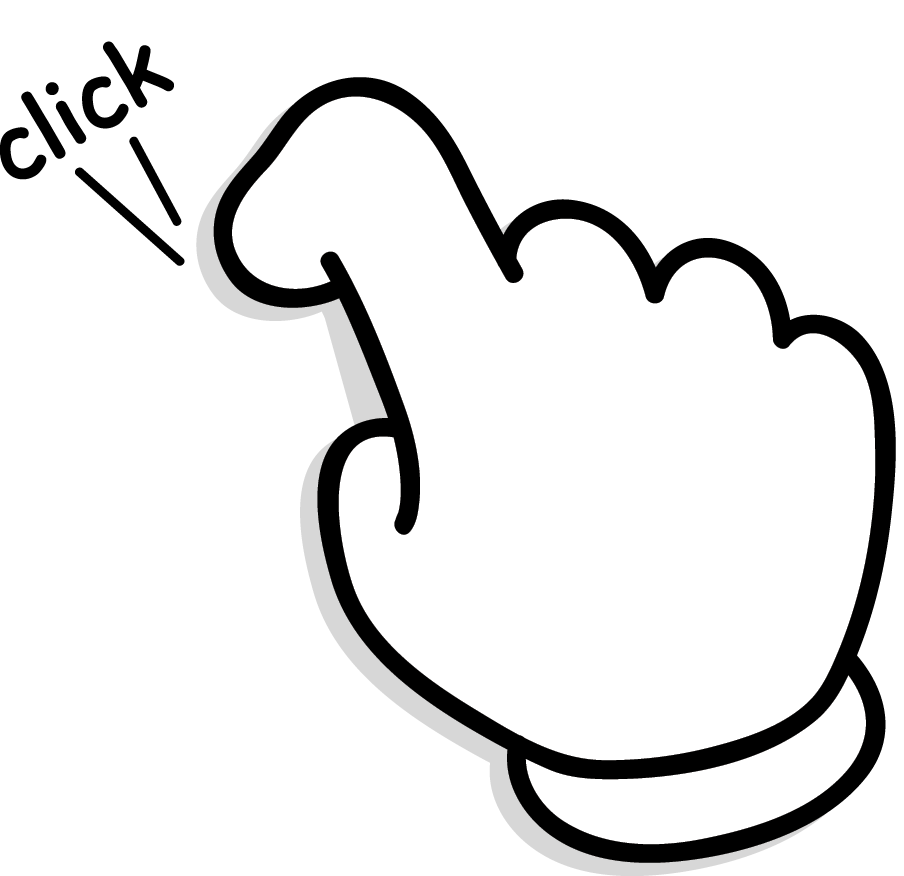
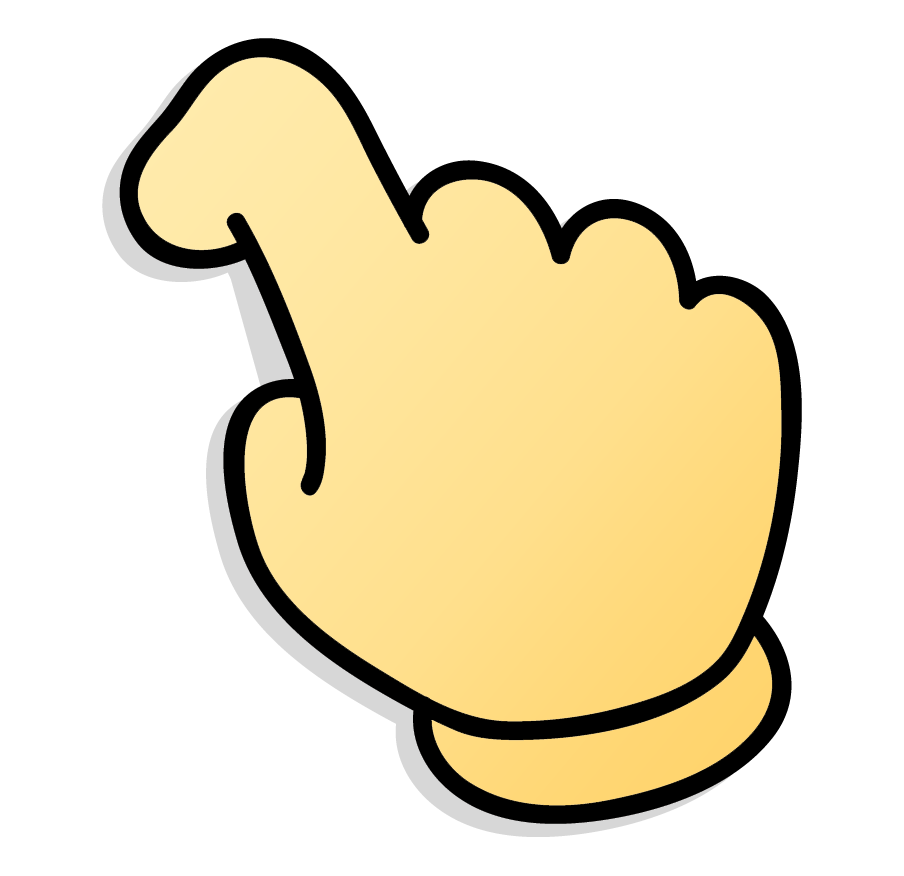
optimized code

diff --git a/Header/RenderWindow.c b/Header/RenderWindow.c
@@ -4,20 +4,29 @@
 RenderWindow RenderWindowInit() {
     RenderWindow renderWindow;
     renderWindow.Create = &RenderWindow_Create;
-    renderWindow.CleanUp = &RenderWindow_CleanUp;
-    renderWindow.Clear = *RenderWindow_Clear;
-    renderWindow.Render = *RenderWindow_Render;
-    renderWindow.Display = *RenderWindow_Display;
-    
+    renderWindow.Clear = &RenderWindow_Clear;
+    renderWindow.Render = &RenderWindow_Render;
+    renderWindow.Display = &RenderWindow_Display;
+    renderWindow.Close = &RenderWindow_Close;
+    renderWindow.DestroyTexture = &RenderWindow_DestroyTexture;
+
     return renderWindow;
 }
 
 SDL_Texture* LoadTexture(RenderWindow* self, const char* path) {
     SDL_Texture* texture = NULL;
+    SDL_Surface* surface = NULL;
 
-    texture = IMG_LoadTexture(self->renderer, path);
-    if (texture == NULL) {
-        printf("Cannot load texture: %s\n", SDL_GetError());
+    surface = IMG_Load(path);
+    if (surface == NULL) {
+        printf("Cannot load surface: %s! ---- Error: %s\n", path, IMG_GetError());
+    }
+    else {
+        texture = SDL_CreateTextureFromSurface(self->renderer, surface);
+        if (texture == NULL) {
+            printf("Cannot load texture: %s! ---- Error: %s\n", path, SDL_GetError());
+        }
+        SDL_FreeSurface(surface);
     }
     return texture;
 }
@@ -32,15 +41,25 @@ void RenderWindow_Create(RenderWindow* self, const char* title, int width, int h
     self->renderer = SDL_CreateRenderer(self->window, -1, SDL_RENDERER_ACCELERATED);
 }
 
-void RenderWindow_CleanUp(RenderWindow* self) {
-    SDL_DestroyWindow(self->window);
-}
 void RenderWindow_Clear(RenderWindow* self) {
     SDL_RenderClear(self->renderer);
 }
-void RenderWindow_Render(RenderWindow* self, SDL_Texture* tex) {
-    SDL_RenderCopy(self->renderer, tex, NULL, NULL);
+void RenderWindow_Render(RenderWindow* self, SDL_Texture* tex, SDL_Rect* srcrect, SDL_Rect* rect) {
+    SDL_RenderCopy(self->renderer, tex, srcrect, rect);
 }
 void RenderWindow_Display(RenderWindow* self) {
     SDL_RenderPresent(self->renderer);
+}
+void RenderWindow_Close(RenderWindow* self) {
+    SDL_DestroyRenderer(self->renderer);
+    SDL_DestroyWindow(self->window);
+    self->renderer = NULL;
+    self->window = NULL;
+
+    IMG_Quit();
+    SDL_Quit();
+}
+void RenderWindow_DestroyTexture(SDL_Texture* tex) {
+    SDL_DestroyTexture(tex);
+    tex = NULL; 
 }

diff --git a/main.c b/main.c
@@ -1,5 +1,6 @@
 #include <stdbool.h>
 #include "Header/RenderWindow.c"
+#include "Header/Cursor.c"
 #include "Header/GFX.h"
 
 SDL_Event event;
@@ -8,22 +9,25 @@ int main(int argc, char* argv[]) {
     SDL_Init(SDL_INIT_EVERYTHING);
 
     RenderWindow renderWindow = RenderWindowInit();
-
     renderWindow.Create(&renderWindow, "Ô Ăn Quan", 1280, 720);
 
     SDL_Texture* background = LoadTexture(&renderWindow, BACKGROUND_PIC);
+    SDL_Texture* cursorTex = LoadTexture(&renderWindow, MOUSE_PIC);
+    Cursor cursor = CursorInit(renderWindow.renderer, cursorTex);
     while (true)
     {
+        cursor.Update(&cursor);
         if (SDL_PollEvent(&event)) {
             if (event.type == SDL_QUIT)
                 break;
         }
         renderWindow.Clear(&renderWindow);
-        renderWindow.Render(&renderWindow, background);
+        renderWindow.Render(&renderWindow, background, NULL, NULL);
+        cursor.Draw(&cursor);
         renderWindow.Display(&renderWindow);
-    }
-    renderWindow.CleanUp(&renderWindow);
 
-    SDL_Quit(); 
+    }
+
+    renderWindow.Close(&renderWindow);
     return EXIT_SUCCESS;
 }

diff --git a/Header/RenderWindow.h b/Header/RenderWindow.h
@@ -7,16 +7,17 @@ struct RenderWindow {
     SDL_Window* window;
     SDL_Renderer* renderer;
     void (*Create) (RenderWindow *, const char*, int, int);
-    void (*CleanUp) (RenderWindow *);
     void (*Clear) (RenderWindow *);
-    void (*Render) (RenderWindow *, SDL_Texture *);
+    void (*Render) (RenderWindow *, SDL_Texture *, SDL_Rect *, SDL_Rect *);
     void (*Display) (RenderWindow *);
+    void (*Close) (RenderWindow *);
+    void (*DestroyTexture) (SDL_Texture *);
 };
-
 RenderWindow RenderWindowInit(void);
 SDL_Texture* LoadTexture(RenderWindow* self, const char* path);
 void RenderWindow_Create(RenderWindow* self, const char* title, int width, int height);
-void RenderWindow_CleanUp(RenderWindow* self);
 void RenderWindow_Clear(RenderWindow* self);
-void RenderWindow_Render(RenderWindow* self, SDL_Texture* tex);
+void RenderWindow_Render(RenderWindow* self, SDL_Texture* tex, SDL_Rect* srcrect, SDL_Rect* rect);
 void RenderWindow_Display(RenderWindow* self);
+void RenderWindow_Close(RenderWindow* self);
+void RenderWindow_DestroyTexture(SDL_Texture* tex);

diff --git a/Header/Cursor.c b/Header/Cursor.c
@@ -1,0 +1,26 @@
+#include <stdio.h>
+#include <stdbool.h>
+#include "Cursor.h"
+#include "GFX.h"
+
+Cursor CursorInit(SDL_Renderer* renderer, SDL_Texture* texture) {
+    Cursor cursor;
+    cursor.renderer = renderer;
+    cursor.tex = texture;
+    cursor.rect.w = 50;
+    cursor.rect.h = 50;
+    cursor.point.w = 1;
+    cursor.point.h = 1;
+    cursor.Draw = &Cursor_Draw;
+    cursor.Update = &Cursor_Update;
+    SDL_ShowCursor(false);
+    return cursor;
+}
+void Cursor_Draw(Cursor* self) {
+    SDL_RenderCopy(self->renderer, self->tex, NULL, &self->rect);
+}
+void Cursor_Update(Cursor* self) {
+    SDL_GetMouseState(&self->rect.x, &self->rect.y);
+    self->point.x = self->rect.x;
+    self->point.y = self->rect.y;
+}

diff --git a/Header/Cursor.h b/Header/Cursor.h
@@ -1,0 +1,18 @@
+#include <SDL2/SDL.h>
+#include <SDL2/SDL_image.h>
+
+typedef struct Cursor Cursor;
+
+struct Cursor
+{
+    SDL_Renderer* renderer;
+    SDL_Texture* tex;
+    SDL_Rect rect;
+    SDL_Rect point;
+    void (*Draw) (Cursor *);
+    void (*Update) (Cursor *);
+};
+
+Cursor CursorInit(SDL_Renderer* renderer, SDL_Texture* texture);
+void Cursor_Draw(Cursor* self);
+void Cursor_Update(Cursor* self);

diff --git a/Header/GFX.h b/Header/GFX.h
@@ -1,1 +1,2 @@
 #define BACKGROUND_PIC "gfx/bg.jpg"
+#define MOUSE_PIC "gfx/cursor/cursor.png"
